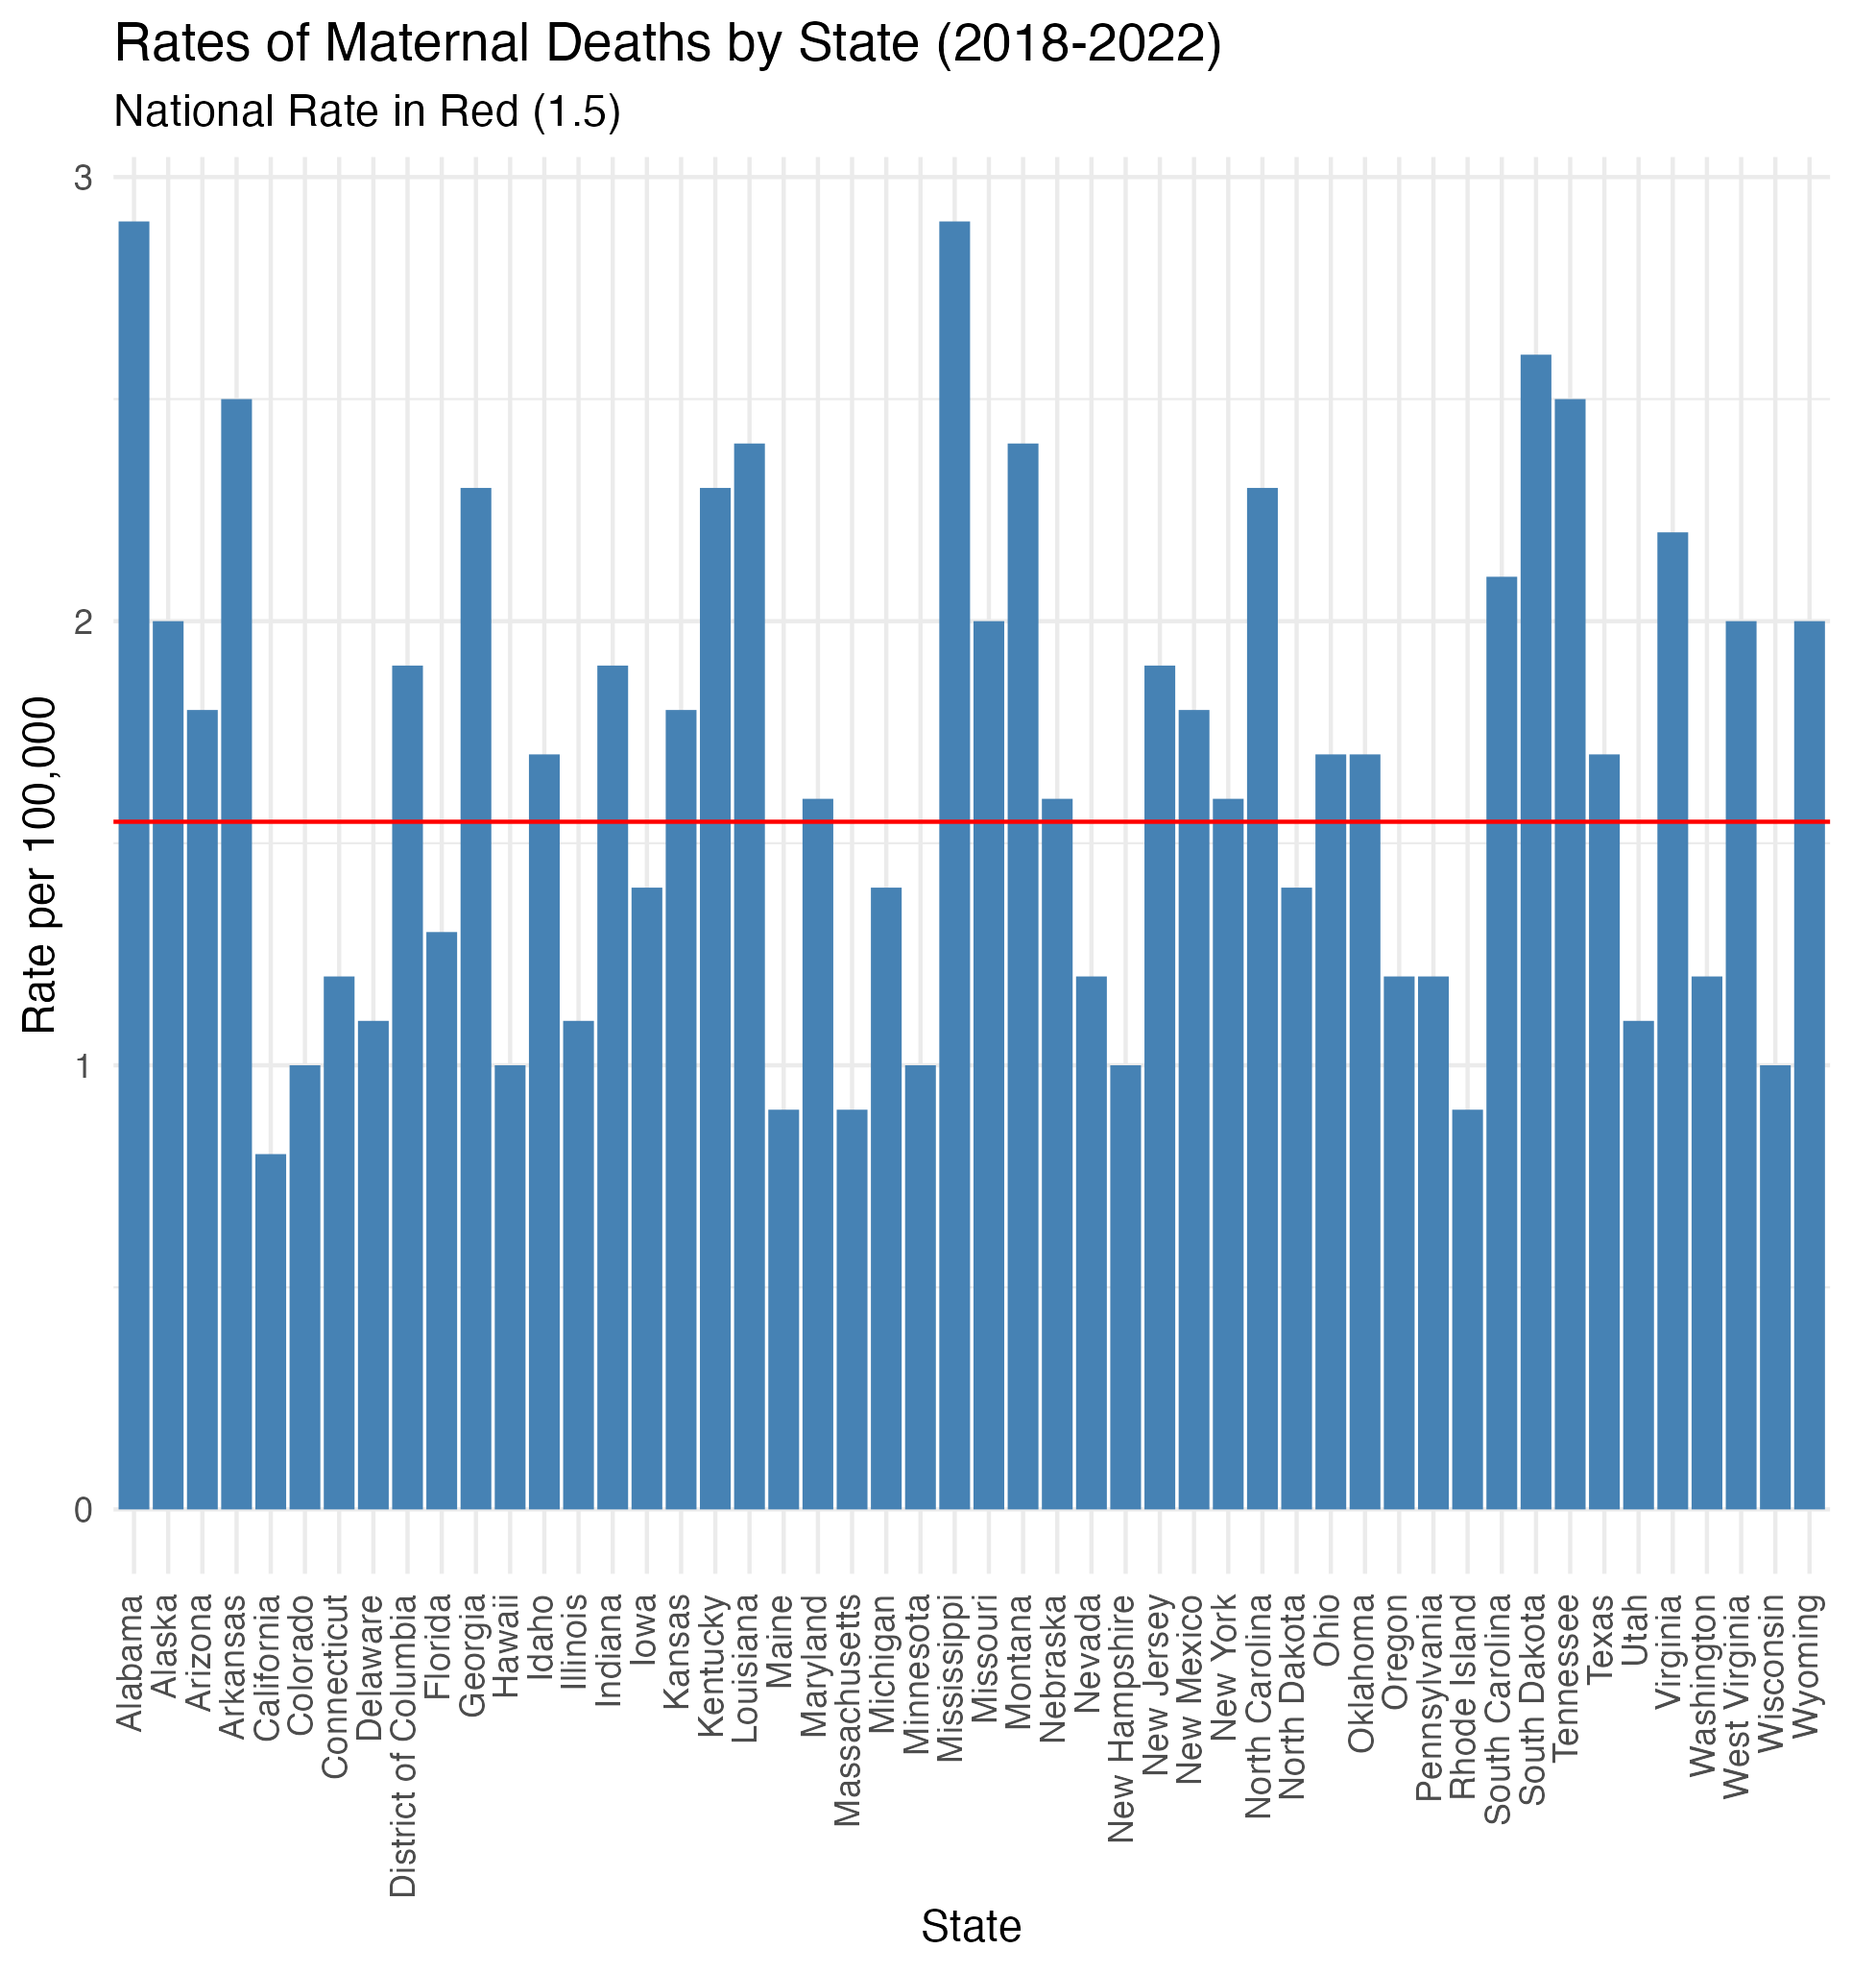
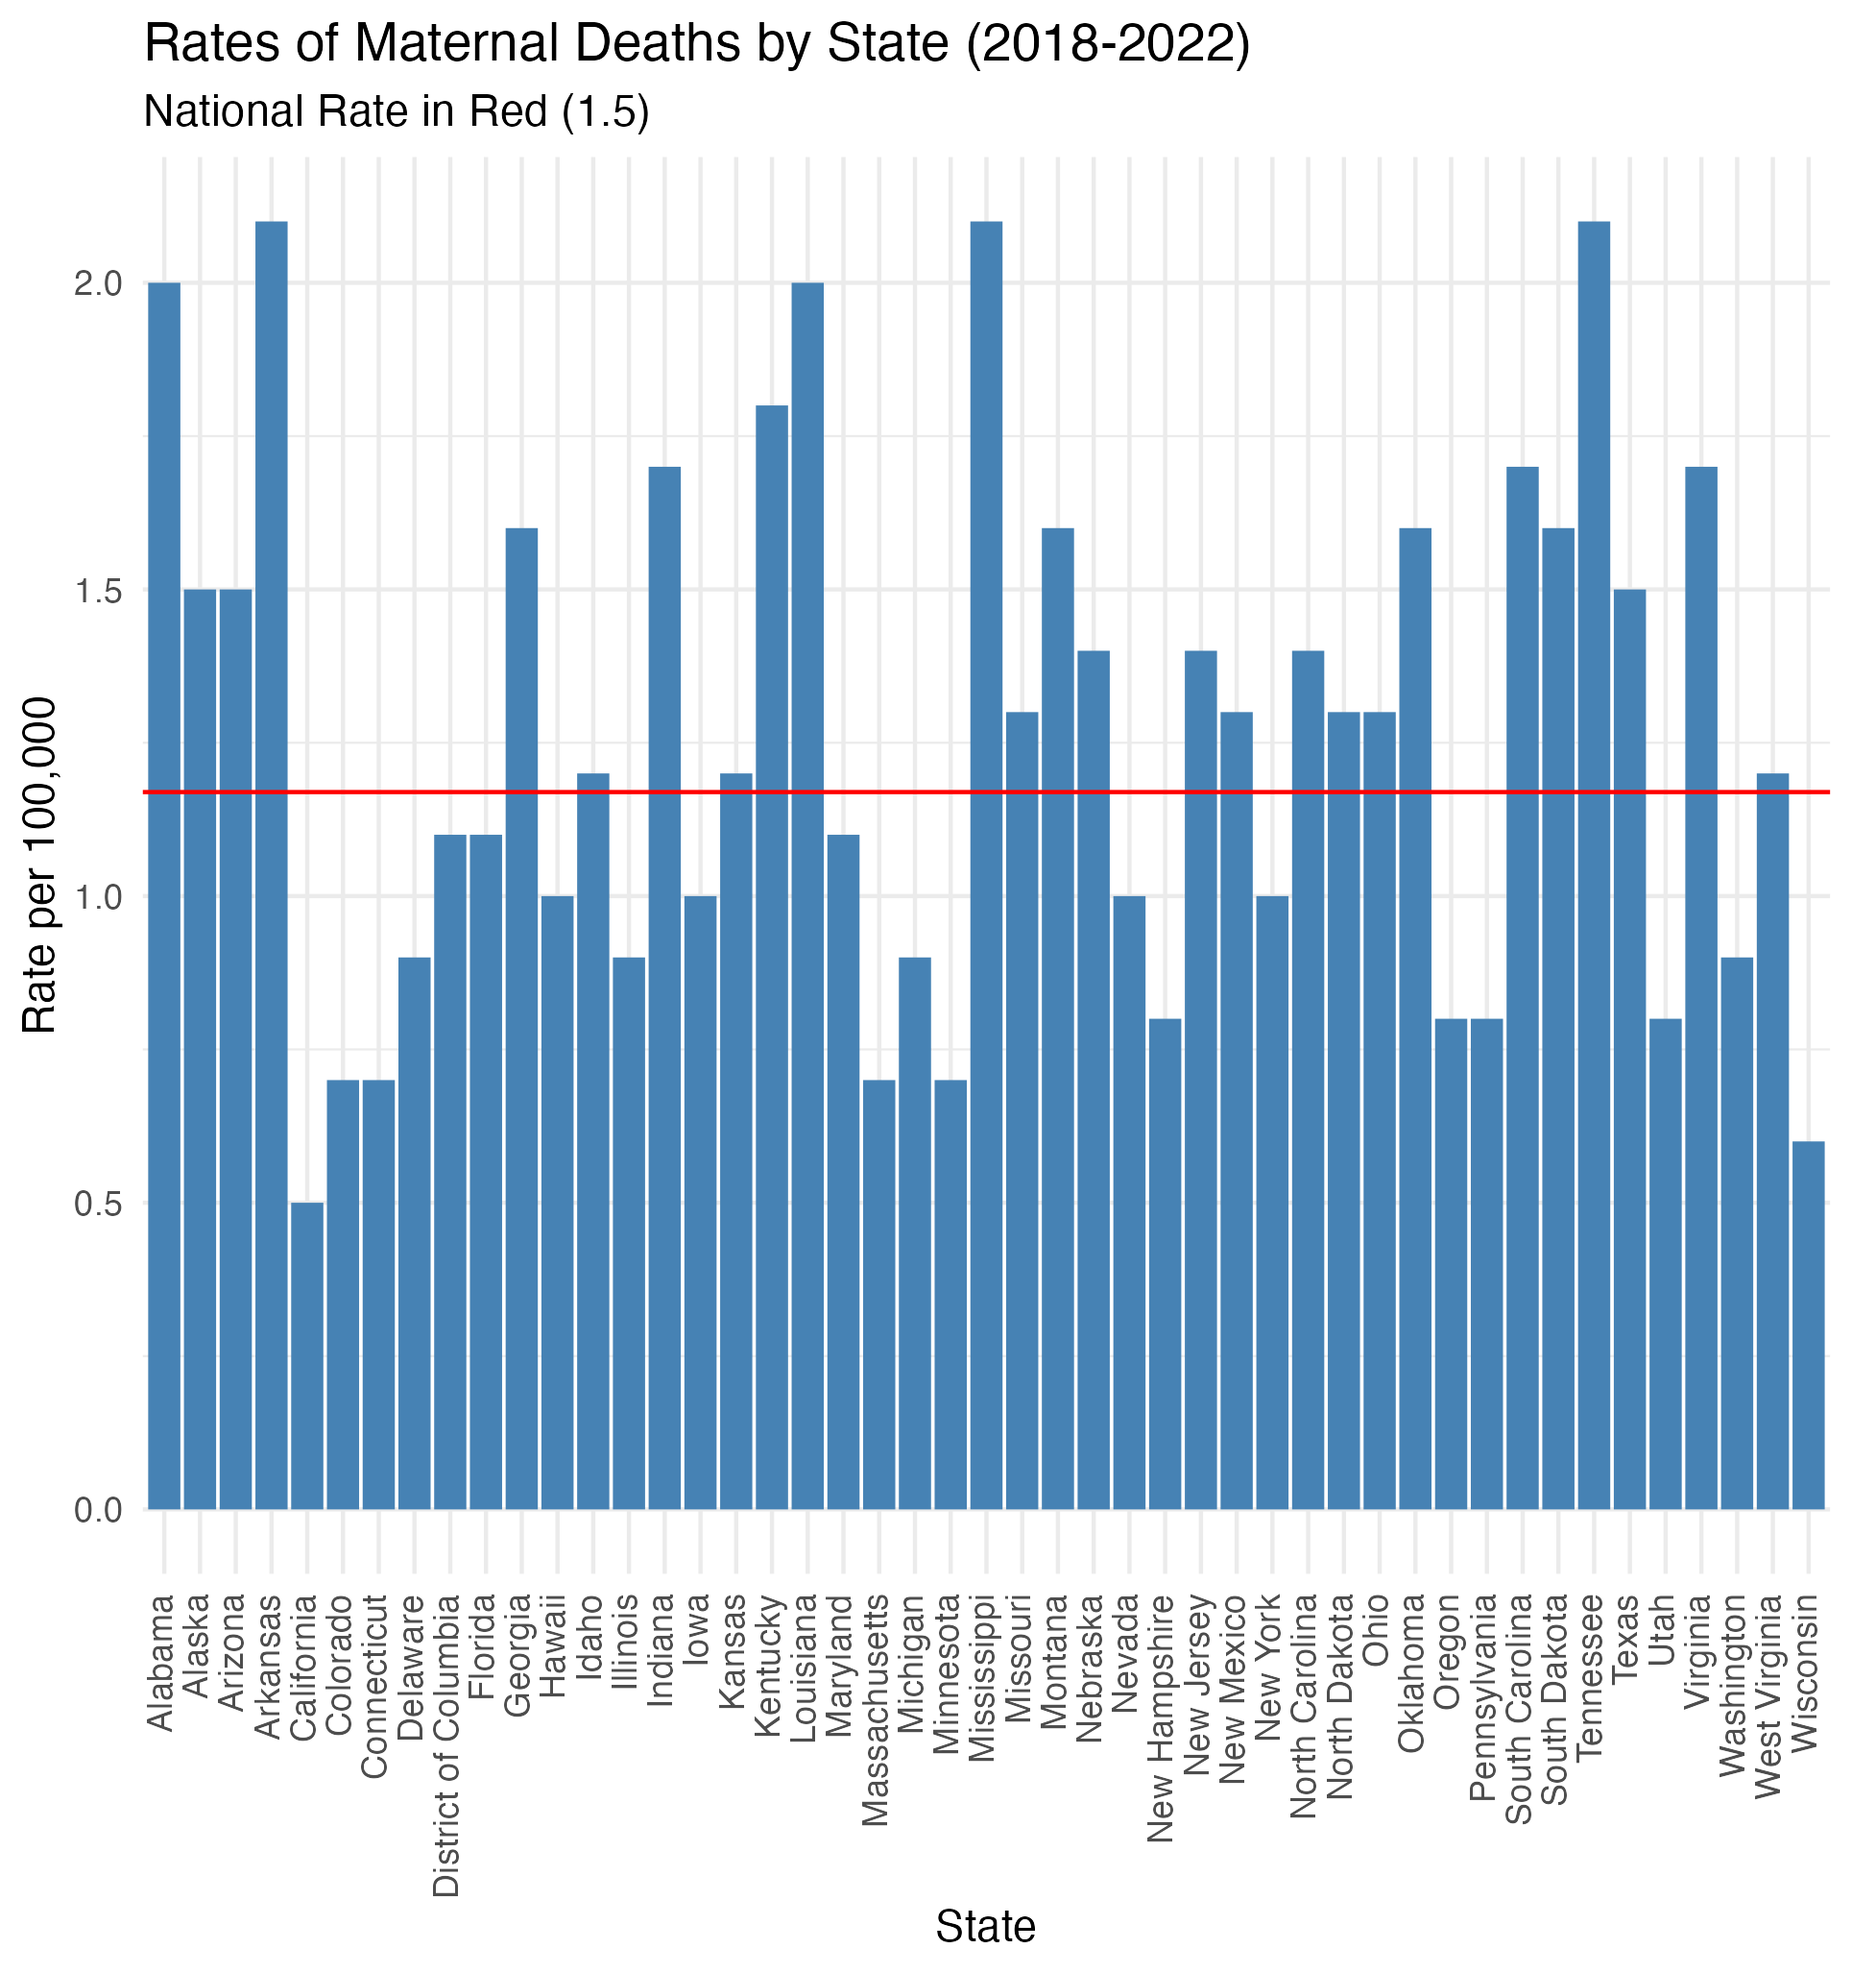
Exclude O96 (deaths after 42 days post-pregnancy) from maternal deaths data)

diff --git a/data/README.md b/data/README.md
@@ -13,9 +13,9 @@ Fetal deaths data can be accessed at the following links:
 - By state: https://wonder.cdc.gov/controller/saved/D133/D347F116
 
 Maternal deaths data can be accessed at the following links:
-- National by year: https://wonder.cdc.gov/controller/saved/D176/D347F117
-- National by mother's age: https://wonder.cdc.gov/controller/saved/D176/D347F118
-- National by mother's race: https://wonder.cdc.gov/controller/saved/D176/D347F119
-- By state: https://wonder.cdc.gov/controller/saved/D176/D347F120
+- National by year: https://wonder.cdc.gov/controller/saved/D176/D347F121
+- National by mother's age: https://wonder.cdc.gov/controller/saved/D176/D347F122
+- National by mother's race: https://wonder.cdc.gov/controller/saved/D176/D347F123
+- By state: https://wonder.cdc.gov/controller/saved/D176/D347F125
 
-The maternal deaths table is generated by limiting the mortality statistics tables to women aged 15-44 with the following ICD-10 codes as the underlying cause of death: A34, O00-O96 and O98-O99.
+The maternal deaths table is generated by limiting the mortality statistics tables to women aged 15-44 with the following ICD-10 codes as the underlying cause of death: A34, O00-O95 and O98-O99. This follows the definition for maternal mortality (death while pregnant or within 42 days of end of pregnancy), rather than wider definitions like pregnancy-associated or pregnancy-related death.
